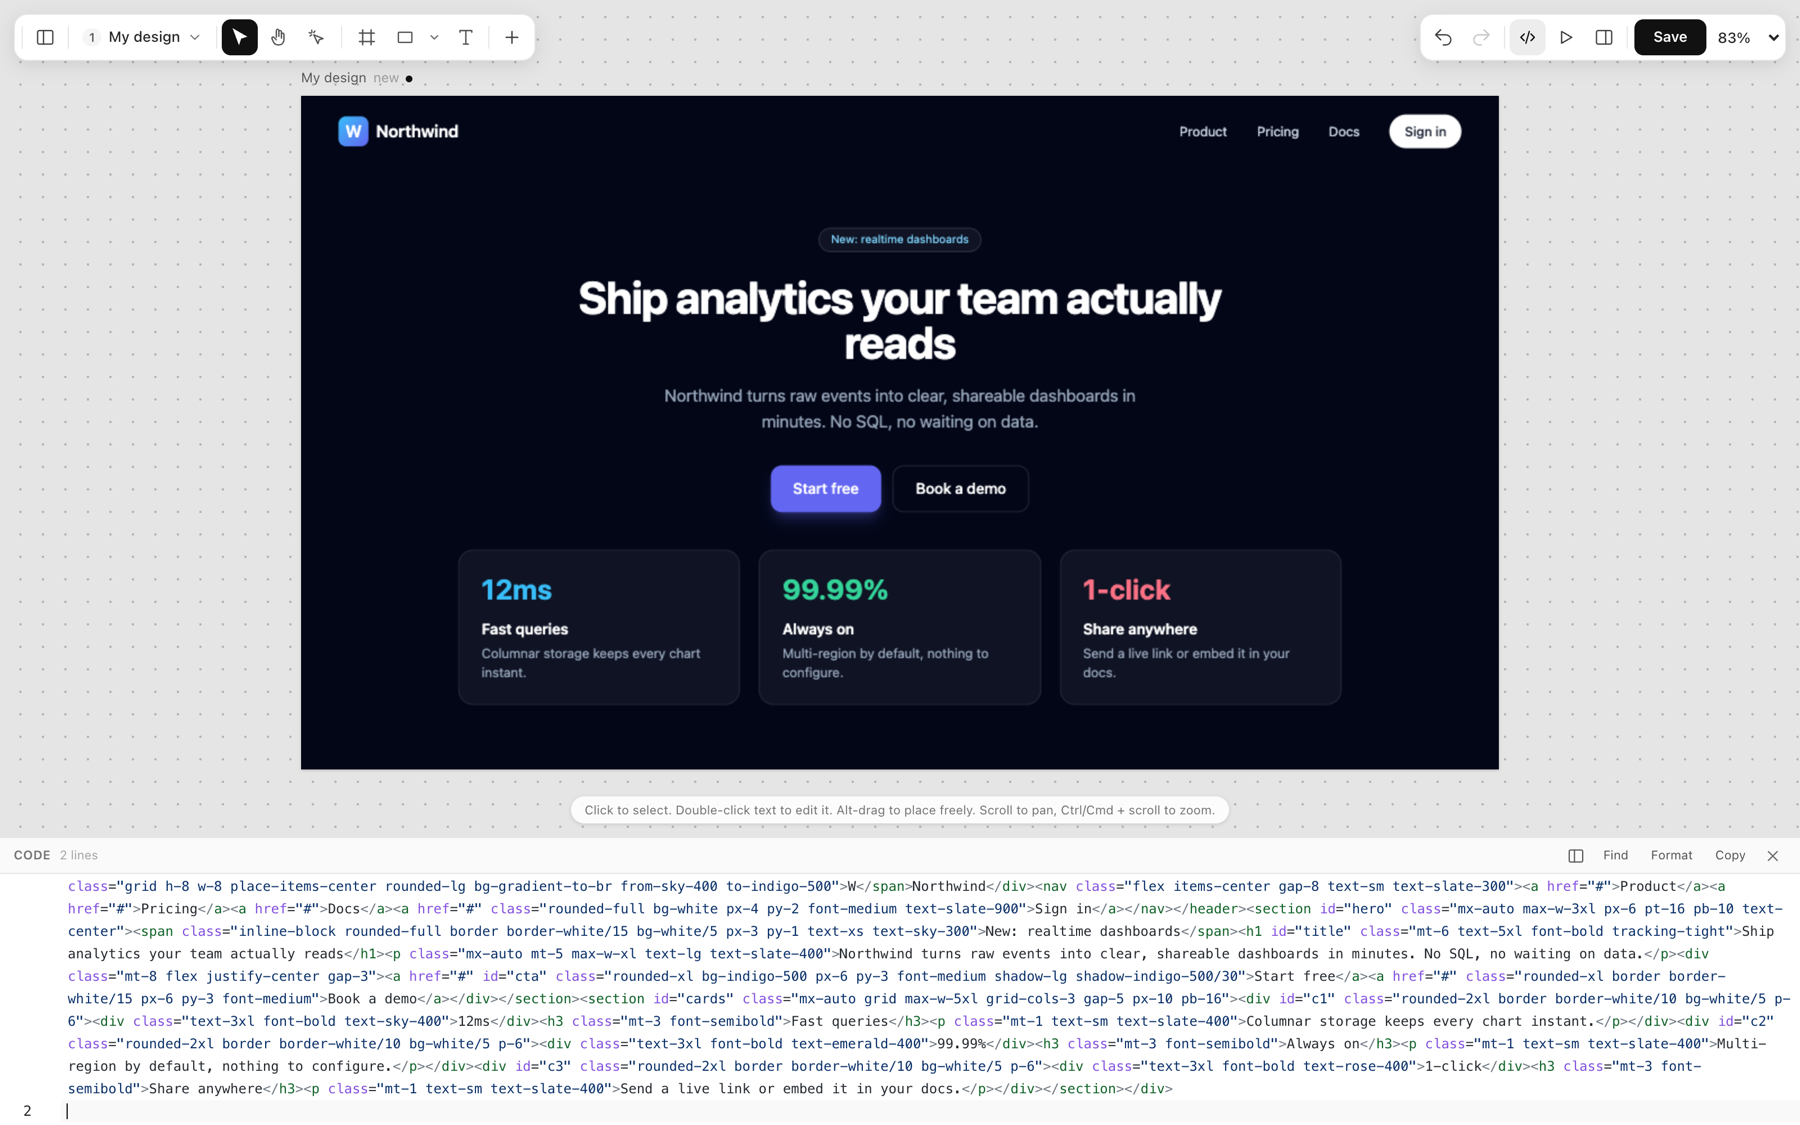
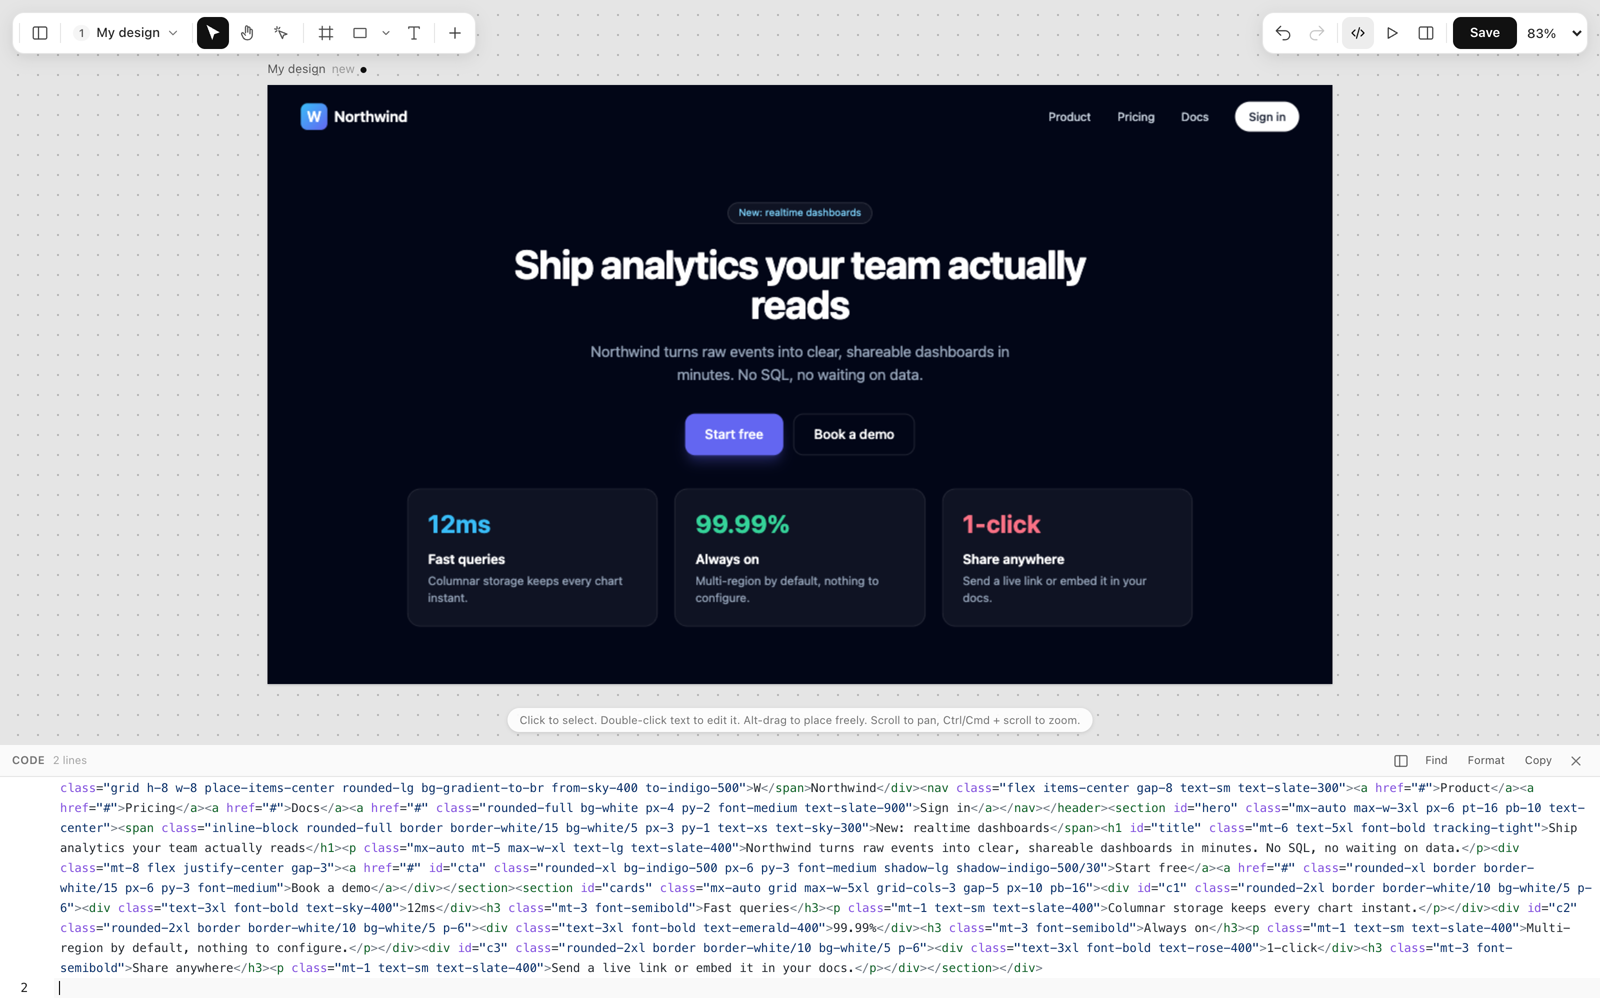
docs: README screenshots cropped to one size so the grid lines up

diff --git a/README.md b/README.md
@@ -61,11 +61,11 @@ Most design tools end in a hand-off: a picture of the thing, rebuilt by someone 
   </tr>
   <tr>
     <td width="50%" valign="top">
-      <img src="docs/media/layers.png" alt="Layers panel listing every element of the page" width="55%">
+      <img src="docs/media/layers.png" alt="Layers panel listing every element of the page" width="100%">
       <br><b>Layers and pages.</b> Every element in a tree, every page on one infinite canvas.
     </td>
     <td width="50%" valign="top">
-      <img src="docs/media/responsive.png" alt="The same page at mobile width, the cards stacked in one column" width="55%">
+      <img src="docs/media/responsive.png" alt="The same page at mobile width, the cards stacked in one column" width="100%">
       <br><b>Responsive by design.</b> Switch to Tablet or Mobile, or drag to any width. Edits land in the right breakpoint (<code>md:p-8</code>).
     </td>
   </tr>
